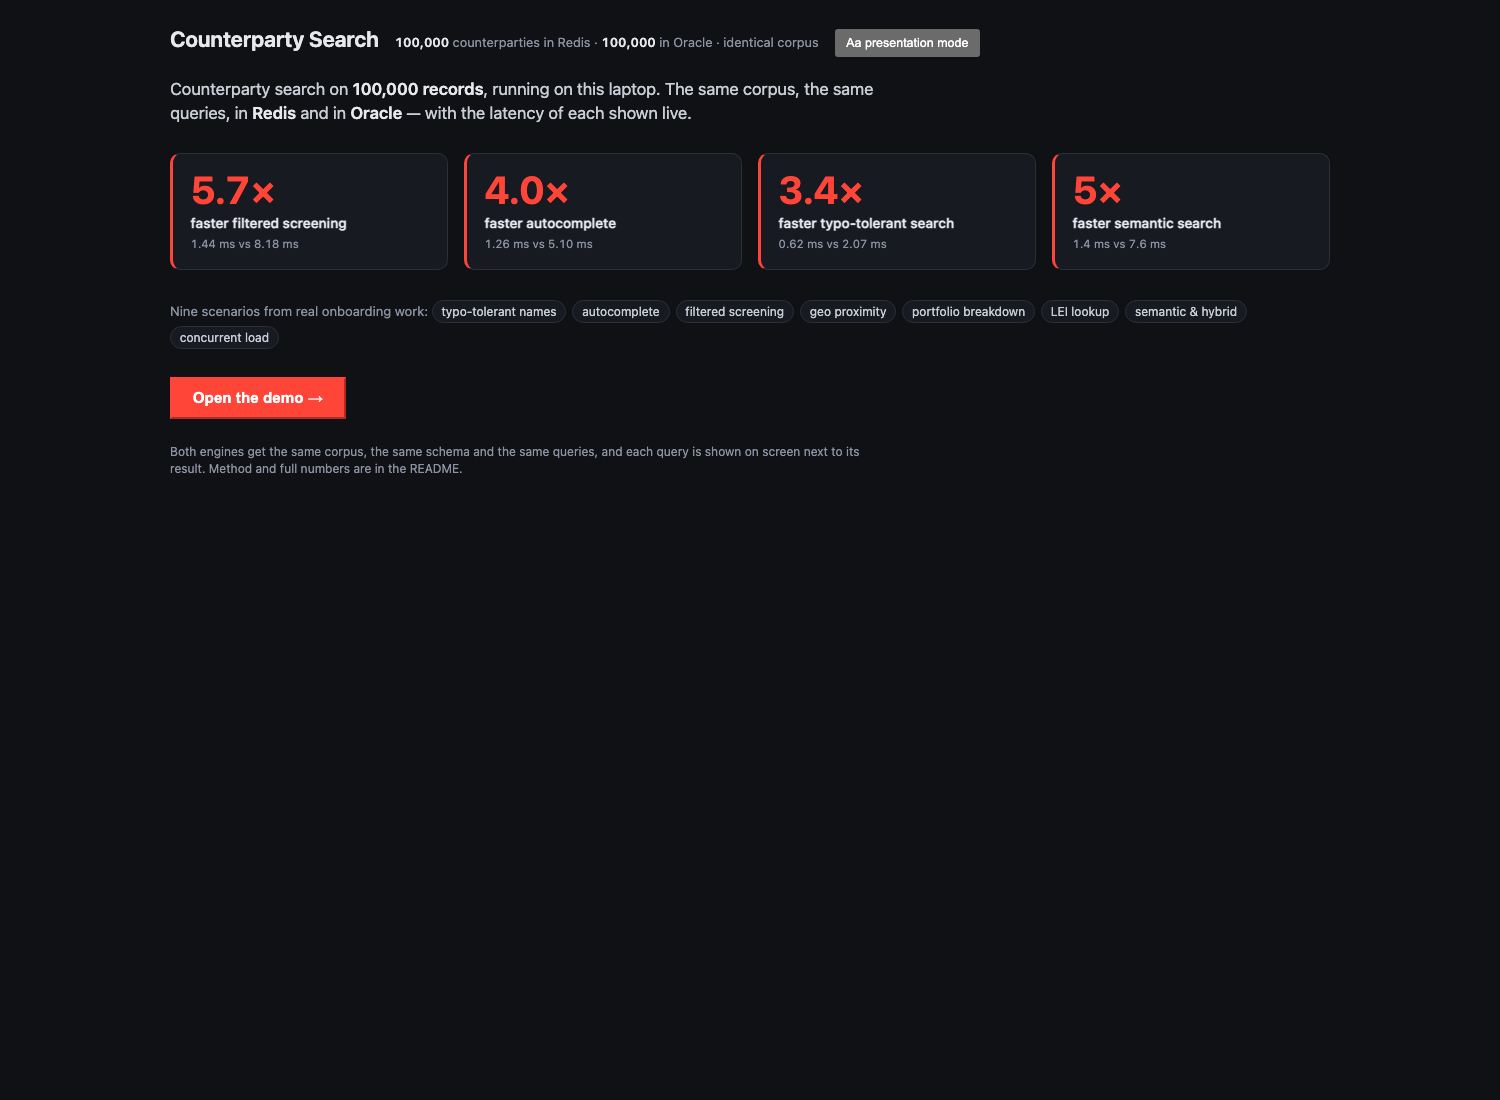
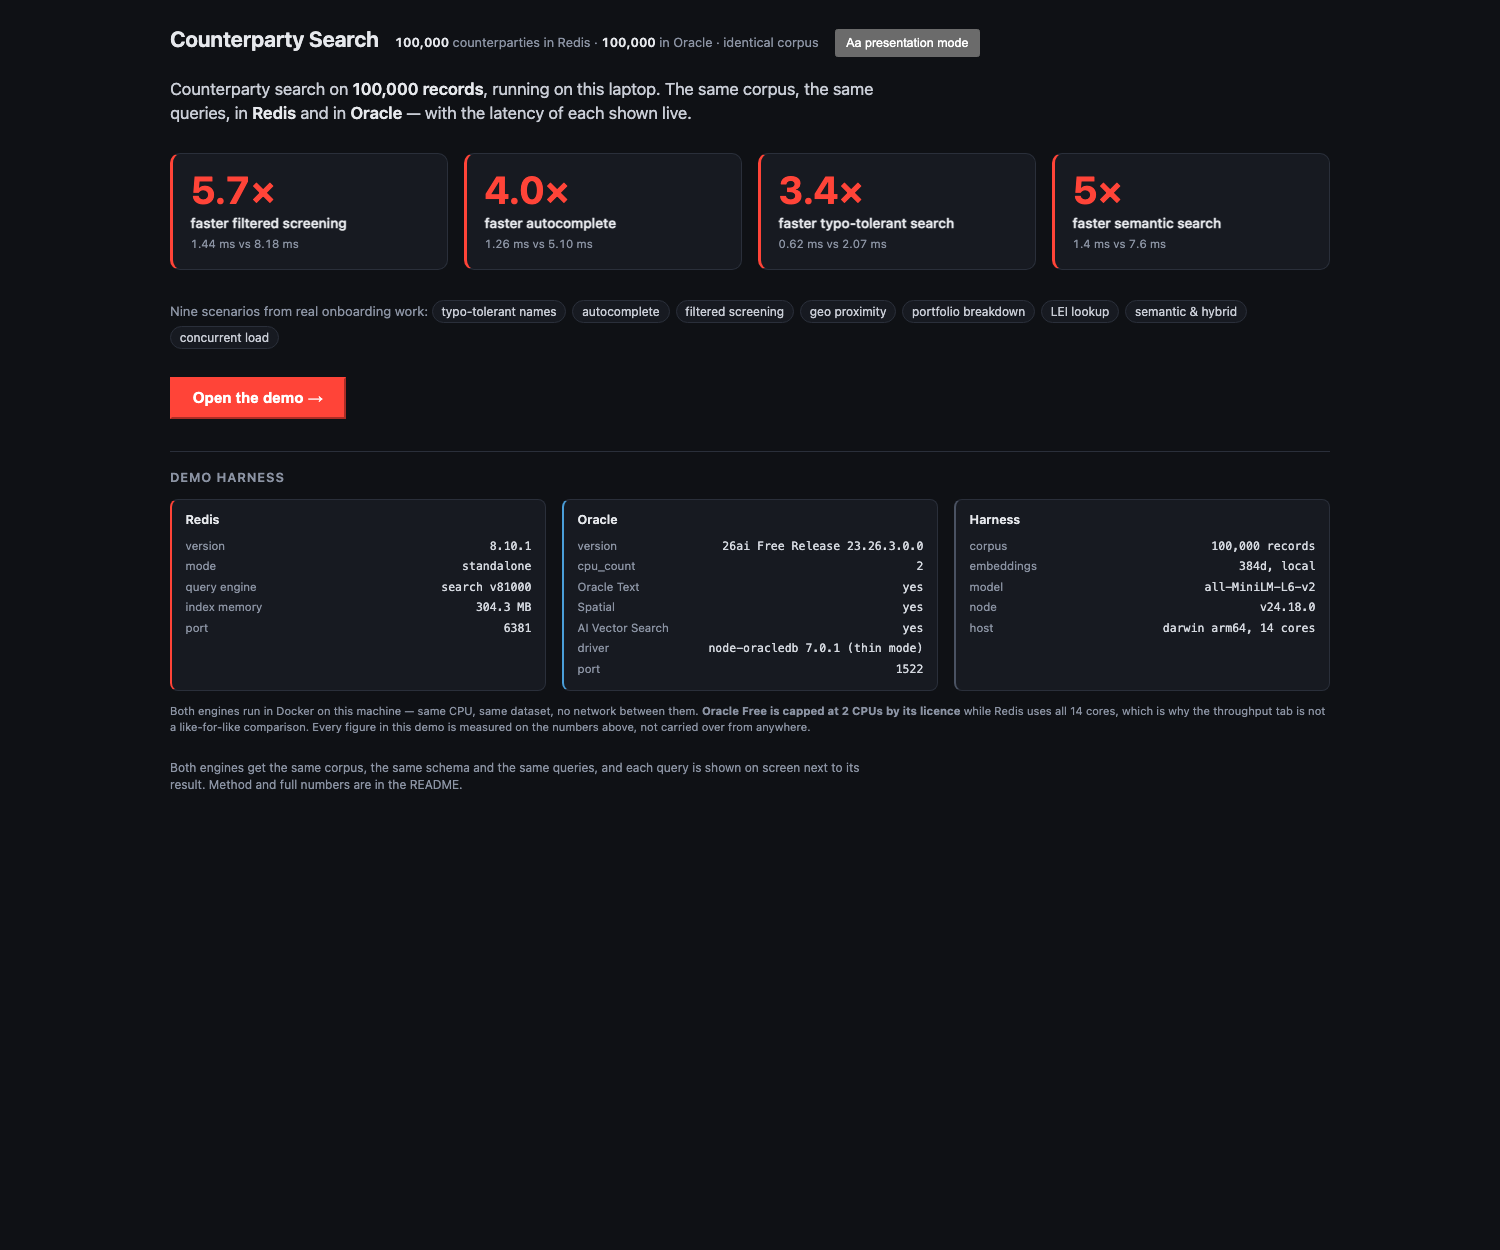
Run the throughput bench against Oracle, and add a demo-harness panel
BENCH RESULTS. Concurrency sweep, each engine loaded separately:

  conc   redis QPS   oracle QPS   redis p99   oracle p99
     2       3,089          327      1.14ms       9.46ms
     4       5,206          326      1.22ms      52.10ms
     8       9,722          407      1.26ms      98.48ms
    16      10,766          427      2.86ms     785.90ms

The headline ratio is ~26x at 16 clients and IT IS NOT LIKE-FOR-LIKE. Oracle
Free is capped at 2 CPUs by its licence — v$parameter cpu_count reports 2 no
matter what Docker is told, and I confirmed that by trying to raise it. Redis
uses all 14 cores of this host. Both the README and METHODOLOGY say so before
quoting the number, and say to concede the tab if a DBA challenges it.

What survives the caveat, and is the more interesting finding anyway: Oracle is
already saturated at TWO concurrent clients — 327 QPS at concurrency 2 against
427 at sixteen, essentially flat — and past saturation the queue becomes the
latency, with p99 going 9ms to 786ms while the median moves only 6ms to 13ms.
Redis scales with the host and holds p99 under 3ms.

One handicap in the harness was mine and is fixed: each Oracle bench worker
shared a 2-connection pool across 16 worker threads, so most of them queued on
connection acquisition and the first run showed a 4,270ms max. One connection
per worker now, matching how Redis is driven. It moved the ratio from 29.3x to
25.9x — so the pool was real but not the main story. Client CPU was checked at
[…]

diff --git a/public/index.html b/public/index.html
@@ -200,6 +200,40 @@
       padding: 0.12rem 0.55rem; margin: 0.15rem 0.15rem 0 0;
       font-size: 0.75rem; color: #c9cdd6;
     }
+    /* Harness / environment panel at the foot of the overview. */
+    .env {
+      margin-top: 2rem; border-top: 1px solid var(--line); padding-top: 1.1rem;
+    }
+    .env h3 {
+      margin: 0 0 0.7rem; font-size: 0.8rem; font-weight: 620;
+      text-transform: uppercase; letter-spacing: 0.07em; color: var(--muted);
+    }
+    .env-grid {
+      display: grid; grid-template-columns: repeat(3, 1fr); gap: 1rem;
+    }
+    @media (max-width: 820px) { .env-grid { grid-template-columns: 1fr; } }
+    html.present .env-grid { grid-template-columns: 1fr; }
+    .env-card {
+      background: var(--panel); border: 1px solid var(--line);
+      border-radius: 8px; padding: 0.7rem 0.85rem;
+    }
+    .env-card.r { border-left: 2px solid var(--redis); }
+    .env-card.o { border-left: 2px solid var(--oracle); }
+    .env-card.h { border-left: 2px solid #4a5262; }
+    .env-card h4 {
+      margin: 0 0 0.4rem; font-size: 0.78rem; font-weight: 600;
+    }
+    .env-row {
+      display: flex; justify-content: space-between; gap: 0.6rem;
+      font-size: 0.72rem; padding: 0.12rem 0;
+    }
+    .env-row .k { color: var(--muted); }
+    .env-row .v {
+      text-align: right; color: #d5d9e0;
+      font-family: ui-monospace, SFMono-Regular, Menlo, monospace;
+    }
+    .env-note { font-size: 0.7rem; color: var(--muted); margin: 0.7rem 0 0; }
+
     .method-line {
       font-size: 0.75rem; color: var(--muted); margin: 1.5rem 0 0;
       max-width: 44rem;
@@ -331,6 +365,12 @@
 
     <div class="intro-foot">
       <button id="enterDemo" class="cta">Open the demo &rarr;</button>
+    </div>
+
+    <div class="env" id="env">
+      <h3>Demo harness</h3>
+      <div class="env-grid" id="envGrid"></div>
+      <p class="env-note" id="envNote"></p>
     </div>
 
     <p class="method-line">
@@ -1476,6 +1516,75 @@
       el('corpus').innerHTML = text;
     } catch {
       el('corpus').textContent = 'could not read corpus stats — is the server seeded?';
+    }
+
+    // Versions are read live from both engines rather than hardcoded, so this
+    // panel can't claim something that isn't running.
+    try {
+      const e = await (await fetch('/api/environment')).json();
+      const card = (cls, title, rows) => {
+        const d = document.createElement('div');
+        d.className = `env-card ${cls}`;
+        const h = document.createElement('h4');
+        h.textContent = title;
+        d.append(h);
+        for (const [k, v] of rows) {
+          if (v === null || v === undefined || v === '') continue;
+          const row = document.createElement('div');
+          row.className = 'env-row';
+          const ks = document.createElement('span');
+          ks.className = 'k';
+          ks.textContent = k;
+          const vs = document.createElement('span');
+          vs.className = 'v';
+          vs.textContent = v;
+          row.append(ks, vs);
+          d.append(row);
+        }
+        return d;
+      };
+
+      el('envGrid').replaceChildren(
+        card('r', 'Redis', [
+          ['version', e.redis.version],
+          ['mode', e.redis.mode],
+          // MODULE LIST reports 81000 for 8.10.0, so it needs decoding rather
+          // than printing raw as "v81000".
+          ['query engine', (() => {
+            const m = (e.redis.modules.find((x) => x.startsWith('search')) || '').split(' ')[1];
+            if (!m) return null;
+            const n = Number(m);
+            return `search ${Math.floor(n / 10000)}.${Math.floor((n % 10000) / 100)}.${n % 100}`;
+          })()],
+          ['index memory', e.redis.indexMemoryMb ? `${e.redis.indexMemoryMb} MB` : null],
+          ['port', '6381'],
+        ]),
+        card('o', 'Oracle', [
+          // The banner names the release; trimmed to what fits.
+          ['version', e.oracle.version.replace('Oracle AI Database ', '').replace(' - Develop, Learn, and Run for Free', '')],
+          ['cpu_count', e.oracle.cpuCount],
+          ['Oracle Text', e.oracle.text ? 'yes' : 'no'],
+          ['Spatial', e.oracle.spatial ? 'yes' : 'no'],
+          ['AI Vector Search', e.oracle.vector ? 'yes' : 'no'],
+          ['driver', e.oracle.driver],
+          ['port', '1522'],
+        ]),
+        card('h', 'Harness', [
+          ['corpus', e.corpus.records ? `${e.corpus.records.toLocaleString()} records` : null],
+          ['embeddings', e.corpus.vectors ? '384d, local' : 'not generated'],
+          ['model', e.corpus.embeddingModel ? e.corpus.embeddingModel.split('/')[1] : null],
+          ['node', e.host.node],
+          ['host', `${e.host.platform}, ${e.host.cores} cores`],
+        ]),
+      );
+
+      el('envNote').innerHTML =
+        'Both engines run in Docker on this machine — same CPU, same dataset, no network between them. '
+        + `<b>Oracle Free is capped at ${e.oracle.cpuCount} CPUs by its licence</b> while Redis uses all `
+        + `${e.host.cores} cores, which is why the throughput tab is not a like-for-like comparison. `
+        + 'Every figure in this demo is measured on the numbers above, not carried over from anywhere.';
+    } catch {
+      el('env').hidden = true;
     }
 
     buildChips();

diff --git a/src/server.js b/src/server.js
@@ -636,6 +636,70 @@ app.get('/api/bench-results', (req, res) => {
   }
 });
 
+// GET /api/environment — what the demo is actually running on.
+//
+// Read live from both engines rather than hardcoded, so the overview page can't
+// claim a version that isn't there. A stale version string on a competitive
+// demo is the kind of detail that gets noticed.
+app.get('/api/environment', async (req, res) => {
+  try {
+    const [redisInfo, oracleVer, oracleCpu, caps, ftInfoRes] = await Promise.all([
+      redis.info('server'),
+      oracle.query('select banner_full as b from v$version').catch(() => []),
+      oracle.query("select value as v from v$parameter where name = 'cpu_count'").catch(() => []),
+      oracle.capabilities().catch(() => ({})),
+      ftInfo(redis, REDIS_INDEX).catch(() => null),
+    ]);
+
+    const line = (key) => {
+      const m = new RegExp(`^${key}:(.*)$`, 'm').exec(redisInfo);
+      return m ? m[1].trim() : null;
+    };
+    const modules = await redis.sendCommand(['MODULE', 'LIST']).catch(() => []);
+    const searchMod = [];
+    for (const entry of modules || []) {
+      const o = {};
+      for (let i = 0; i < entry.length; i += 2) o[String(entry[i])] = String(entry[i + 1]);
+      if (o.name) searchMod.push(`${o.name} ${o.ver}`);
+    }
+
+    const banner = oracleVer[0]?.B || 'unknown';
+
+    res.json({
+      corpus: {
+        records: ftInfoRes ? ftInfoRes.stats.numDocs : null,
+        vectors: vectorsAvailable(),
+        embeddingModel: vectorsAvailable() ? MODEL : null,
+      },
+      redis: {
+        version: line('redis_version'),
+        mode: line('redis_mode'),
+        os: line('os'),
+        modules: searchMod,
+        indexMemoryMb: ftInfoRes
+          ? Number(ftInfoRes.stats.totalIndexMemorySzMb.toFixed(1)) : null,
+      },
+      oracle: {
+        // The banner is long; the first line is the useful part.
+        version: String(banner).split('\n')[0],
+        cpuCount: oracleCpu[0]?.V ? Number(oracleCpu[0].V) : null,
+        text: caps.text,
+        spatial: caps.spatial,
+        vector: caps.vector,
+        driver: `node-oracledb ${oracle.oracledb.versionString} (thin mode)`,
+      },
+      host: {
+        node: process.version,
+        platform: `${process.platform} ${process.arch}`,
+        cores: require('os').cpus().length,
+      },
+    });
+  } catch (err) {
+    console.error('environment failed:', err.message);
+    res.status(500).json({ error: err.message });
+  }
+});
+
 // GET /api/meta — filter vocabularies and geo centres, so the UI doesn't
 // hardcode lists that could drift from the data.
 app.get('/api/meta', (req, res) => {

diff --git a/src/bench.js b/src/bench.js
@@ -75,9 +75,14 @@ if (!isMainThread) {
       redis.on('error', () => { errors += 1; });
       await redis.connect();
     } else {
-      // Each worker gets its own small Oracle pool. Sharing one connection
-      // across concurrent queries would serialise them and measure queueing.
-      await oracle.init({ min: 1, max: 2 });
+      // One connection per worker thread, not a pool of 2 shared by 16.
+      //
+      // This was wrong on the first run and it mattered: a max of 2 meant 16
+      // workers queued behind 2 connections, so the p99 was 412ms and the max
+      // 4.2s — that is queueing time, not Oracle. A worker only ever issues one
+      // query at a time, so one connection each is the honest setup and matches
+      // how Redis is driven (one connection per worker).
+      await oracle.init({ min: 1, max: 1 });
     }
 
     // Each worker starts at a different point in the pool so they aren't all

diff --git a/docs/METHODOLOGY.md b/docs/METHODOLOGY.md
@@ -61,6 +61,51 @@ would be worse for Oracle. It's part of what the timings are showing.
 - **No speed multiplier is displayed unless both engines returned the same
   result count.**
 
+## Concurrent throughput, and the 2-CPU cap
+
+`npm run bench` loads both engines under concurrency, sequentially, never at the
+same time.
+
+| Concurrency | Redis QPS | Oracle QPS | Redis p99 | Oracle p99 |
+| ----------- | --------- | ---------- | --------- | ---------- |
+| 2 | 3,089 | 327 | 1.14 ms | 9.46 ms |
+| 4 | 5,206 | 326 | 1.22 ms | 52.10 ms |
+| 8 | 9,722 | 407 | 1.26 ms | 98.48 ms |
+| 16 | 10,766 | 427 | 2.86 ms | 785.90 ms |
+
+**Read the caveat before quoting the ratio.** Oracle Free is capped at **2 CPUs
+by its licence** — `v$parameter cpu_count` reports 2 no matter what Docker is
+told, and there is no container setting that lifts it. Redis meanwhile uses all
+14 cores of this host. The ~26x throughput ratio at 16 clients is therefore
+**not** a like-for-like measurement, and presenting it as one would be
+indefensible: a licensed Oracle on comparable hardware would be far closer.
+
+What the shape *does* legitimately show, and what survives the caveat:
+
+- **Oracle is saturated at 2 concurrent clients.** It does ~327 QPS at
+  concurrency 2 and ~427 at concurrency 16 — essentially flat. Adding clients
+  buys almost no throughput because there is no CPU left to give them.
+- **Past saturation the queue is the latency.** Oracle's p99 goes 9 ms → 52 ms →
+  98 ms → 786 ms across the sweep while its median barely moves from 6 ms to
+  13 ms. That is queueing, and it's the honest way to describe it.
+- **Redis scales to the host.** 3,089 QPS at 2 clients to 10,766 at 16, with p99
+  staying under 3 ms.
+
+Two client-side handicaps were found and fixed before publishing these numbers,
+both of them mine rather than Oracle's:
+
+- Each Oracle bench worker originally shared a **2-connection pool across 16
+  worker threads**, so 14 of them queued on connection acquisition. That
+  produced a 4,270 ms max on the first run. Now one connection per worker,
+  matching how Redis is driven.
+- The client was never the bottleneck: at concurrency 16 the load generator used
+  0.73 of 14 cores driving Oracle against 1.57 driving Redis. Both figures are
+  far from saturation, so these are engine limits, not generator limits.
+
+If a customer's DBA challenges this tab, concede it immediately and point at the
+CPU cap. The single-query latency numbers elsewhere in this demo are much more
+defensible, because a single query cannot use more than one CPU anyway.
+
 ## Where Oracle wins, or comes close
 
 **Primary-key lookup: 0.32 ms against Redis's 0.25 ms — 1.3×.** A B-tree PK

diff --git a/README.md b/README.md
@@ -114,6 +114,29 @@ Loading the same 100,000 records:
 | Index build | included in the write | 2.3 s for 11 indexes, then 1.0 s for statistics |
 | Searchable after write | immediately | after `COMMIT`; the text index needs a sync — configured here as `SYNC (ON COMMIT)` |
 
+## Concurrent throughput
+
+```bash
+npm run bench
+npm run bench -- --scenario=filtered --concurrency=8
+```
+
+| Concurrency | Redis QPS | Oracle QPS | Redis p99 | Oracle p99 |
+| ----------- | --------- | ---------- | --------- | ---------- |
+| 2 | 3,089 | 327 | 1.14 ms | 9.46 ms |
+| 8 | 9,722 | 407 | 1.26 ms | 98.48 ms |
+| 16 | 10,766 | 427 | 2.86 ms | 785.90 ms |
+
+⚠ **Oracle Free is capped at 2 CPUs by licence** and there's no container
+setting that lifts it, while Redis uses all 14 cores here. **Do not quote the
+throughput ratio as like-for-like** — see
+[Methodology](docs/METHODOLOGY.md#concurrent-throughput-and-the-2-cpu-cap).
+
+What survives the caveat: Oracle is already saturated at **2** concurrent
+clients (327 QPS, versus 427 at sixteen), and past saturation its p99 goes from
+9 ms to 786 ms while its median barely moves — that's queueing. Redis scales
+with the host and holds p99 under 3 ms.
+
 ## Validating the results
 
 ```bash
